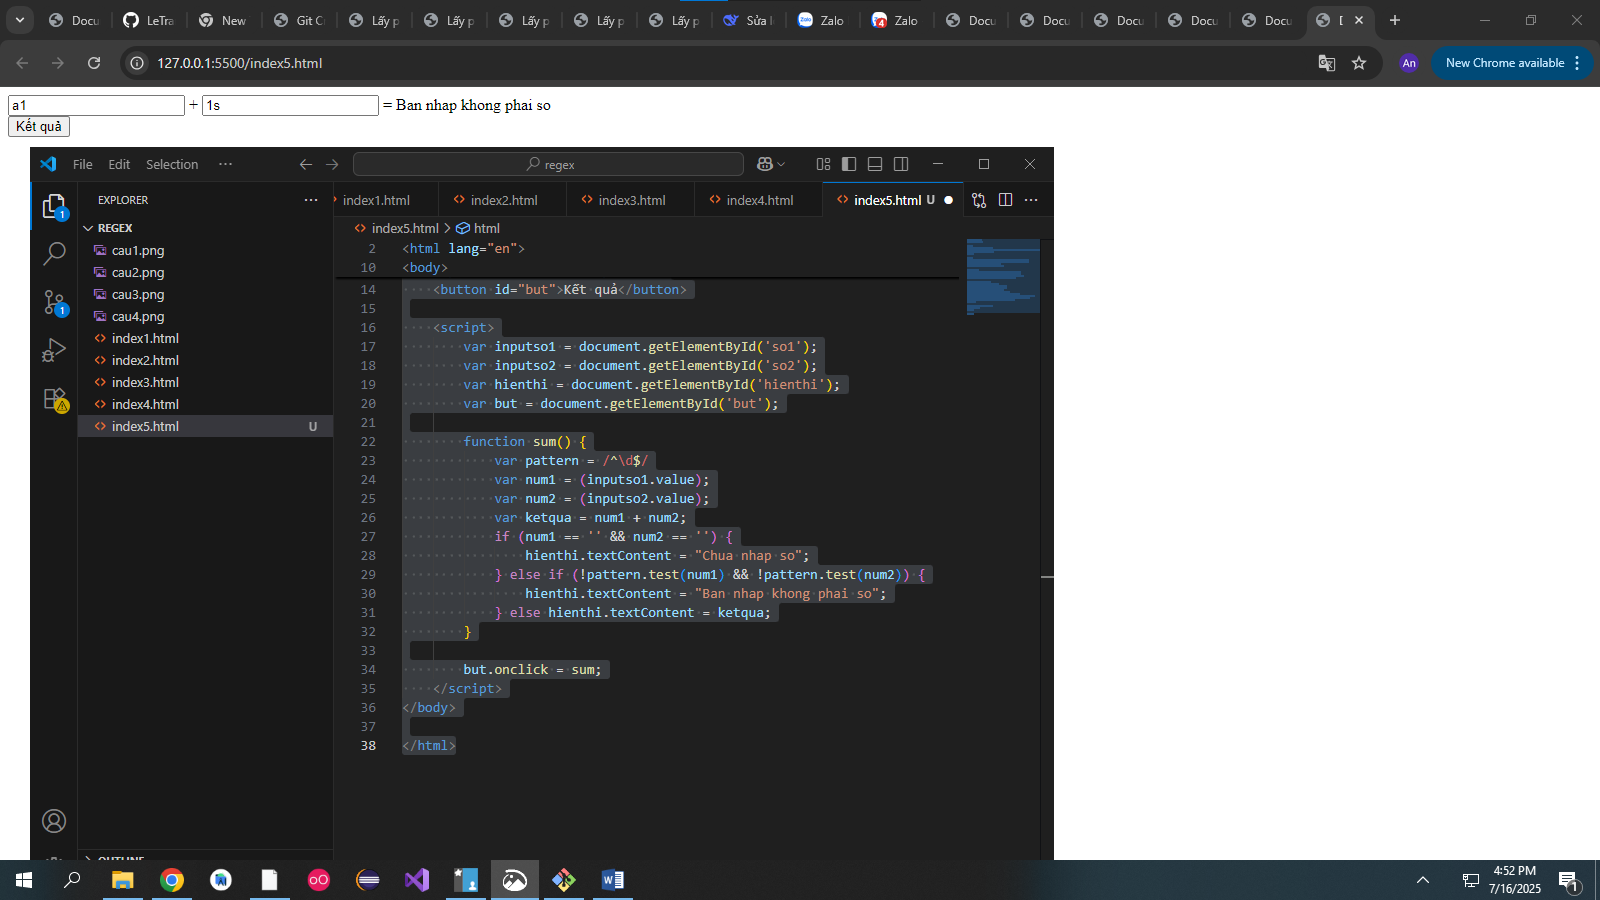
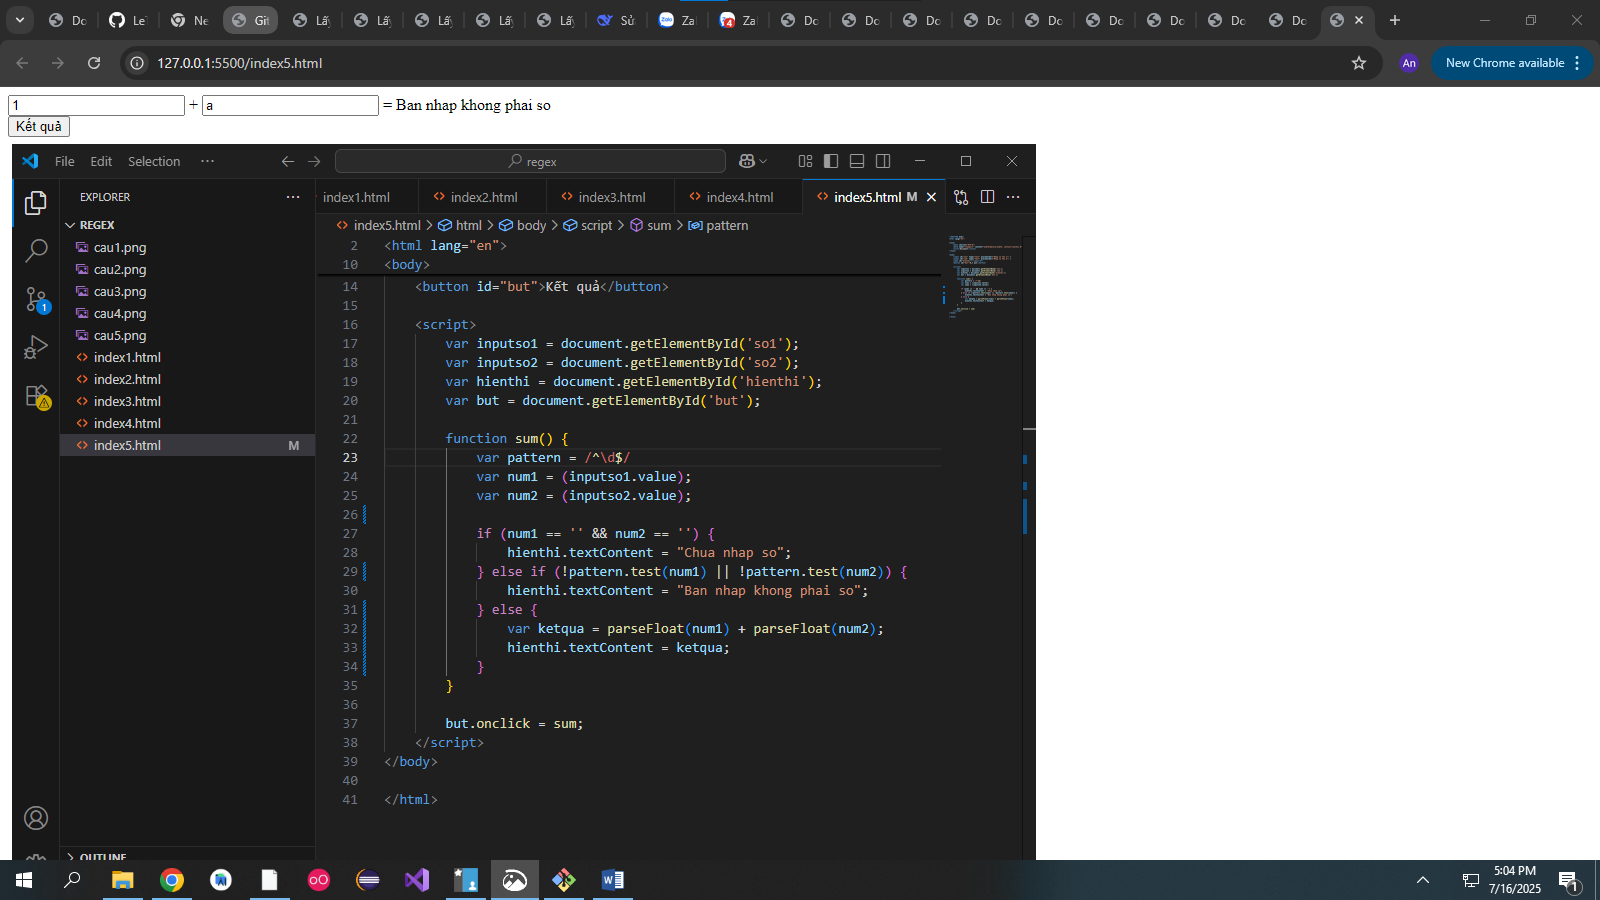
modify index5 + MC

diff --git a/index5.html b/index5.html
@@ -23,12 +23,15 @@
             var pattern = /^\d$/
             var num1 = (inputso1.value);
             var num2 = (inputso2.value);
-            var ketqua = num1 + num2;
+
             if (num1 == '' && num2 == '') {
                 hienthi.textContent = "Chua nhap so";
-            } else if (!pattern.test(num1) && !pattern.test(num2)) {
+            } else if (!pattern.test(num1) || !pattern.test(num2)) {
                 hienthi.textContent = "Ban nhap khong phai so";
-            } else hienthi.textContent = ketqua;
+            } else {
+                var ketqua = parseFloat(num1) + parseFloat(num2);
+                hienthi.textContent = ketqua;
+            }
         }
 
         but.onclick = sum;
